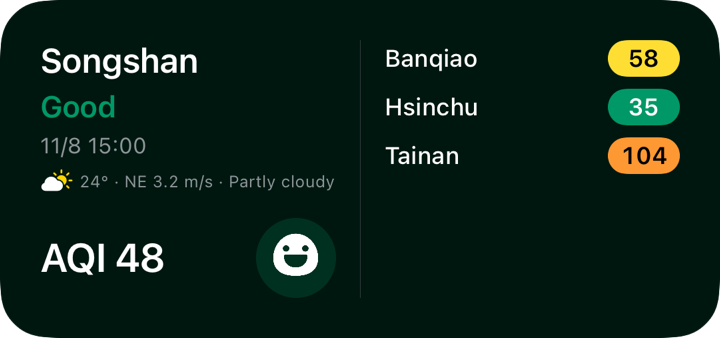
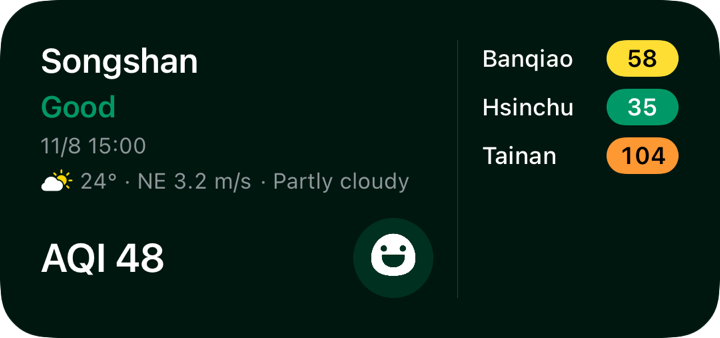
FOX-181: Medium widget 2:1 (station : favourites) so the weather line fits

diff --git a/ios/TWAQIWidget/TWAQIWidget.swift b/ios/TWAQIWidget/TWAQIWidget.swift
@@ -756,7 +756,11 @@ struct ReadingWidgetView: View {
         let status = reading.status(type)
         let tint = Color(status.getColor())
 
-        return HStack(alignment: .top, spacing: 12) {
+        // Station on the left, favourites on the right, 2:1: the weather line
+        // needs the room, the favourites are a name and a badge.
+        return GeometryReader { proxy in
+            let side = (proxy.size.width - 25) / 3   // 25 = two gaps of 12 and the divider
+            HStack(alignment: .top, spacing: 12) {
             VStack(alignment: .leading, spacing: 4) {
                 Text(reading.displayName)
                     .font(.headline)
@@ -778,7 +782,8 @@ struct ReadingWidgetView: View {
                     face(status, value: reading.formatted(type), size: 40)
                 }
             }
-            .frame(maxWidth: .infinity, maxHeight: .infinity, alignment: .leading)
+            .frame(width: side * 2, alignment: .leading)
+            .frame(maxHeight: .infinity, alignment: .leading)
 
             Divider()
 
@@ -790,7 +795,9 @@ struct ReadingWidgetView: View {
                         .frame(maxWidth: .infinity, alignment: .trailing)
                 }
             }
-            .frame(maxWidth: .infinity, maxHeight: .infinity, alignment: .topLeading)
+            .frame(width: side, alignment: .topLeading)
+            .frame(maxHeight: .infinity, alignment: .topLeading)
+            }
         }
         .padding(4)
     }
@@ -1068,6 +1075,8 @@ struct ReadingWidgetView: View {
             Text(reading.displayName)
                 .font(.caption.weight(.medium))
                 .lineLimit(1)
+                // Medium's list column is a third of the widget.
+                .minimumScaleFactor(showsStatus ? 1 : 0.7)
             if showsStatus {
                 Text(status.toString())
                     .font(.caption2)
